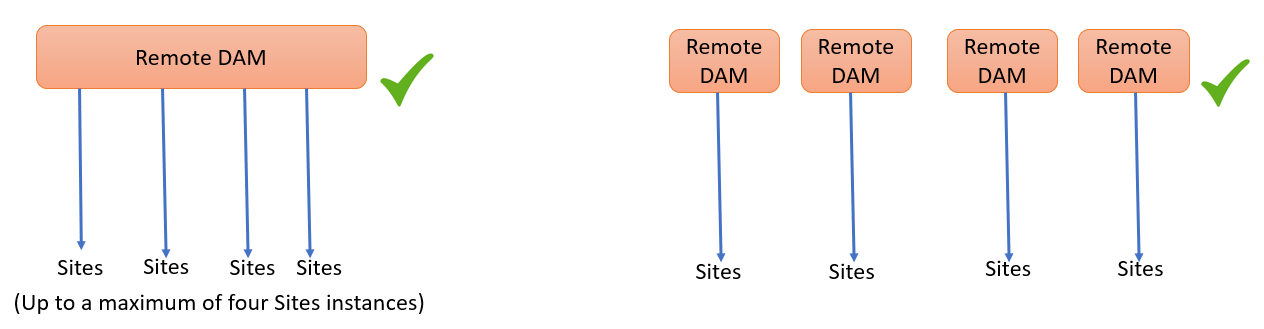
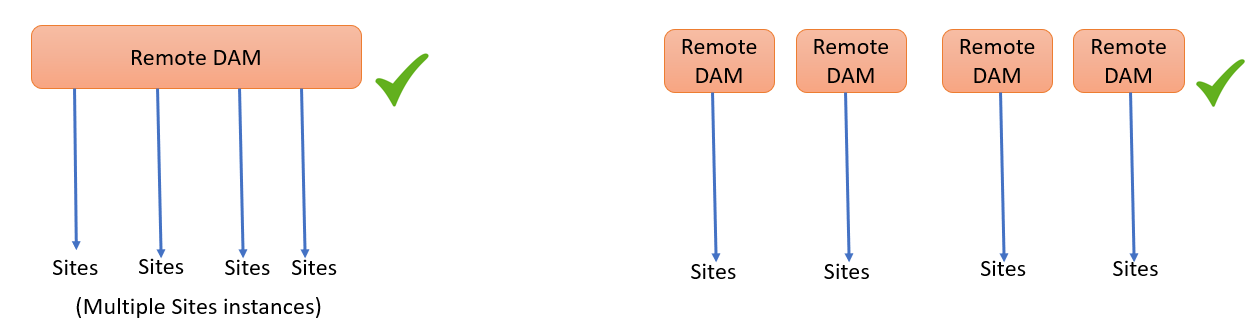
Connected Assets improvements

diff --git a/help/assets/use-assets-across-connected-assets-instances.md b/help/assets/use-assets-across-connected-assets-instances.md
@@ -64,7 +64,9 @@ The various roles that are involved to configure and use the capability and thei
 
 ### Connected Assets architecture {#connected-assets-architecture}
 
-Experience Manager allows you to connect a remote DAM deployment as a source to multiple Experience Manager [!DNL Sites] deployments. You can connect a maximum of four [!DNL Sites] deployments to a source remote DAM. However, you can connect a [!DNL Sites] deployment with only one remote DAM deployment.
+Experience Manager allows you to connect a remote DAM deployment as a source to multiple Experience Manager [!DNL Sites] deployments. However, you can connect a [!DNL Sites] deployment with only one remote DAM deployment.
+
+Evaluate the optimal number of Sites instances to connect to a remote DAM deployment. Adobe recommends to incrementally connect Sites instances to the deployment and test that there is no performance impact at the remote DAM, as each connected Sites instance contributes to the data traffic on the remote DAM.
 
 The following diagrams illustrate the supported scenarios:
 
@@ -258,9 +260,9 @@ Configure the Connected Assets feature only when you need to use the assets avai
 
 +++
 
-+++**How many [!DNL Sites] deployments can you connect to a remote DAM deployment after configuring Connected Assets?**
++++**Can you connect multiple [!DNL Sites] deployments to a remote DAM deployment after configuring Connected Assets?**
 
-You can connect a maximum of four [!DNL Sites] deployments to a remote DAM deployment after configuring Connected Assets. For more information, see [Connected Assets architecture](#connected-assets-architecture).
+Yes, you can connect multiple [!DNL Sites] deployments to a remote DAM deployment after configuring Connected Assets. For more information, see [Connected Assets architecture](#connected-assets-architecture).
 
 +++
 
